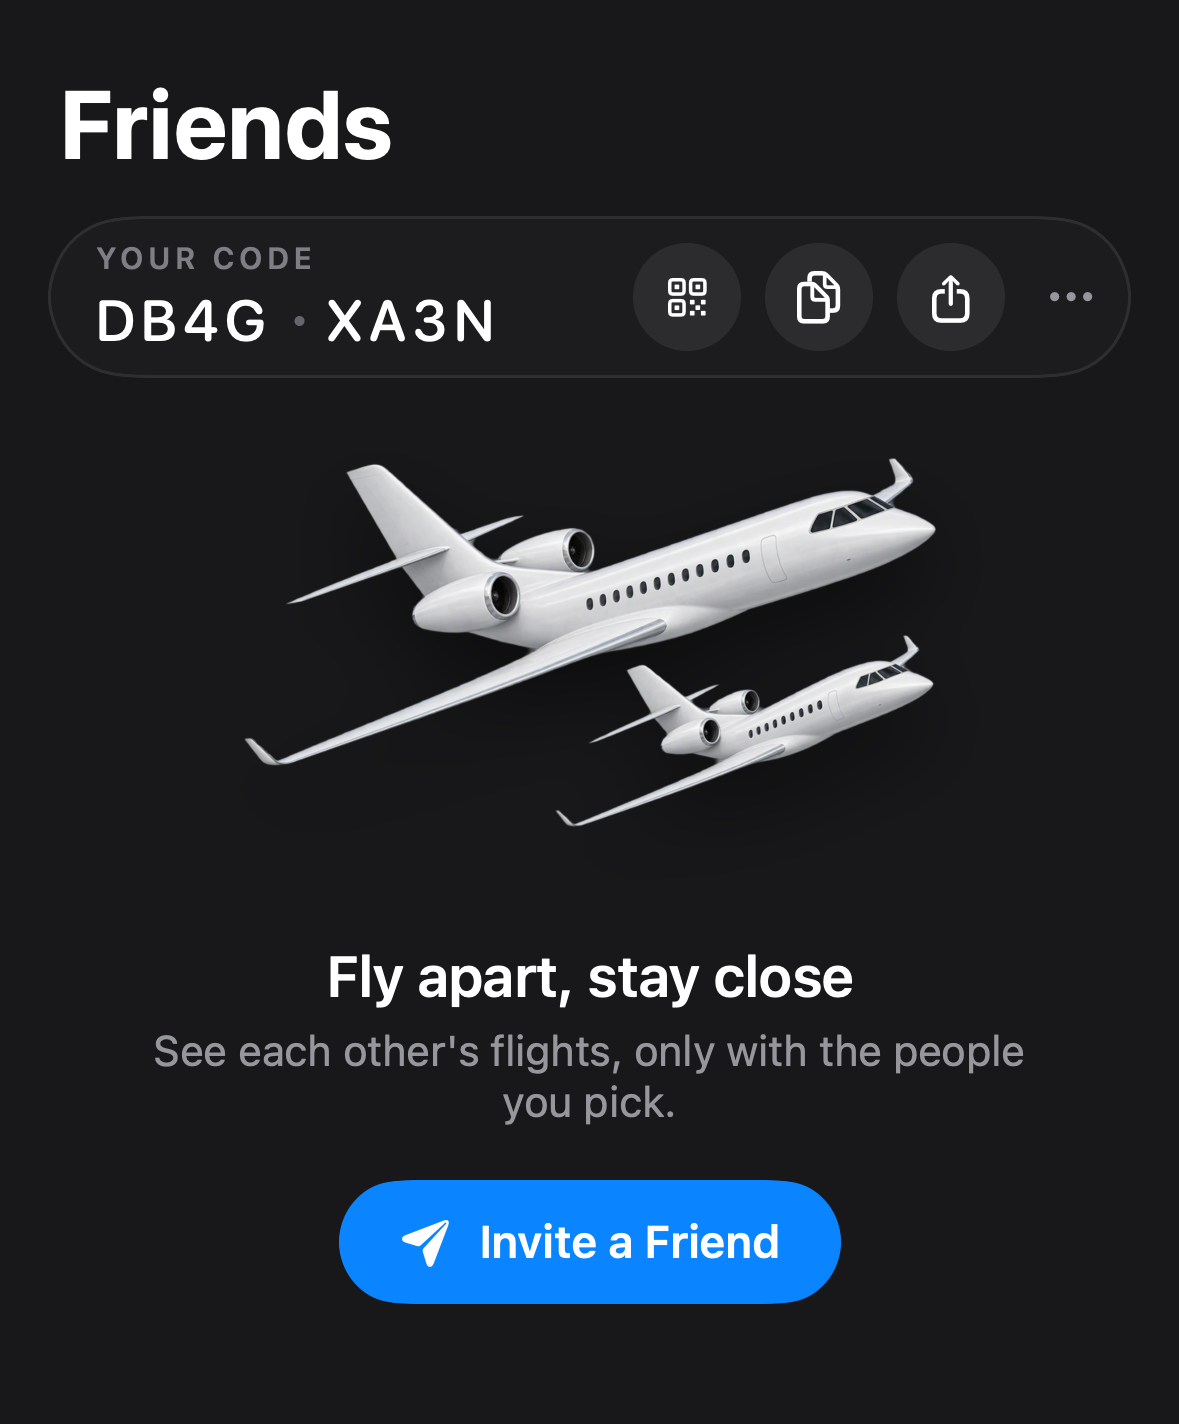
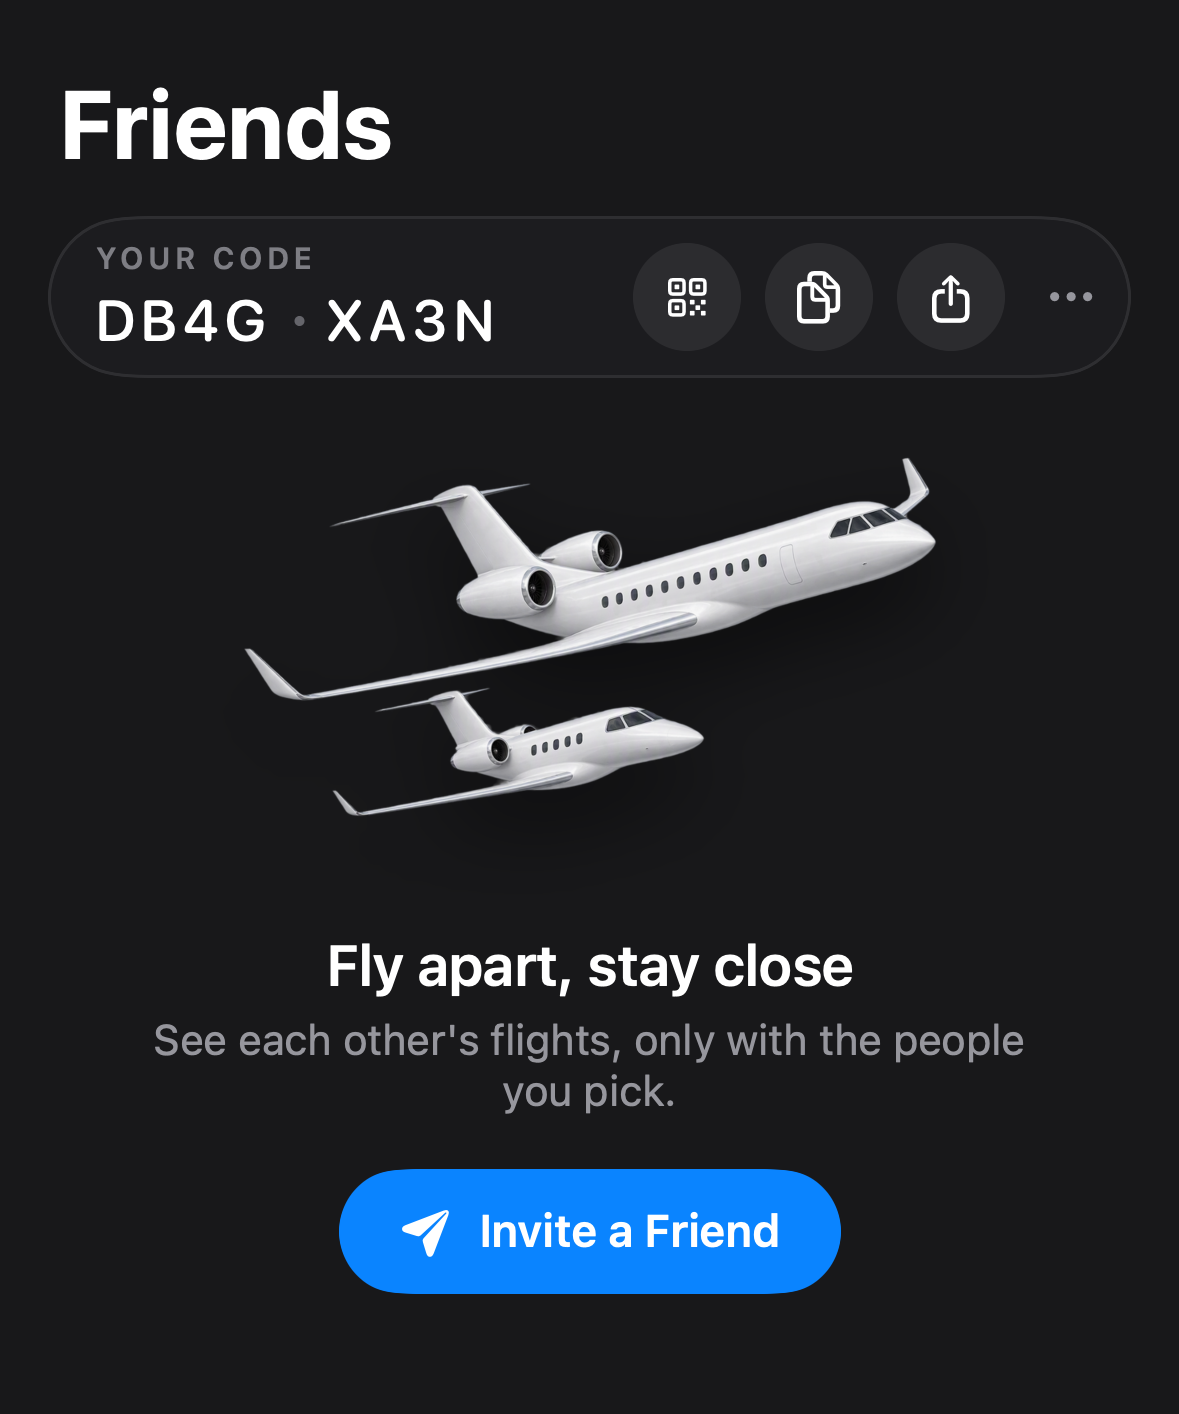
feat(friends): two different private jets for the Friends empty state
The owner picked option A: a large long-range jet in the G650 class ahead and
a light jet in the Phenom 300 class behind, both climbing in the same white
studio render as the other empty states, unbranded. Prompts for all four
options in assets/app-icon/gen.py, the chosen raw beside it.

diff --git a/Packages/FlightKit/Sources/FlightKit/UI/EmptyStateIllustration.swift b/Packages/FlightKit/Sources/FlightKit/UI/EmptyStateIllustration.swift
@@ -11,7 +11,7 @@ struct EmptyStateIllustration: View {
         case stamp
         /// The jet seen three-quarters from the front, climbing (My Flights).
         case climb
-        /// Two of the same jets climbing together, one ahead and one behind (Friends).
+        /// Two private jets of different types climbing together, a large one ahead and a light one behind (Friends).
         case pair
 
         var asset: String {

diff --git a/assets/app-icon/gen.py b/assets/app-icon/gen.py
@@ -32,6 +32,43 @@ JET = (
 ICON = ("This is for an app icon, so the silhouette must stay bold and readable when tiny: a compact, chunky, "
         "confident aircraft, slightly shorter wings than real, thick fuselage. The whole aircraft fits in the frame "
         "with generous equal margins, centred. ")
+STYLE = (
+    "The reference image only shows the rendering style to copy: glossy pure white paint with soft silver shading, "
+    "a realistic but slightly stylised premium product illustration, like an Apple product render, clean studio "
+    "lighting from the upper left, smooth gloss, crisp edges, very few panel lines, dark cockpit glass. Do NOT copy the "
+    "reference aircraft's type. Absolutely no livery, no stripes, no logo, no text, no registration, no flag on any "
+    "aircraft. Landing gear retracted, in flight. Rigid perfectly straight fuselages, correct perspective. Isolated on "
+    "a fully transparent background: no sky, no ground, no clouds, no shadow, no reflection, no contrails, no frame, "
+    "no watermark. "
+)
+# Friends, round 2: the owner wants two private jets of different types, each recognisably its own type,
+# never the Falcon trijet look twice. Options A-D for the owner to choose from.
+SAME_ANGLE = ("Both aircraft fully inside the frame with generous margins, not overlapping each other, each type "
+              "obvious at a glance from its shape and size. ")
+MIXED = {
+    "friends-a": SAME_ANGLE + "Draw TWO clearly different private business jets flying together, both in "
+        "three-quarter front view climbing gently to the upper RIGHT. In front, higher and nearer: a large "
+        "ultra-long-range jet like a Gulfstream G650, long fuselage with big oval windows, T-tail, two large engines "
+        "on the rear fuselage, long swept wings with tall winglets. Behind, lower and smaller: a light jet like an "
+        "Embraer Phenom 300, short stubby fuselage, T-tail, two small engines on the rear fuselage, straight-ish "
+        "wings with small winglets.",
+    "friends-b": SAME_ANGLE + "Draw TWO clearly different private business jets flying together, both in "
+        "three-quarter front view climbing gently to the upper RIGHT. Behind, higher and farther, smaller: a "
+        "compact light jet like a Cessna Citation CJ4, slim short fuselage, T-tail, two small engines on the rear "
+        "fuselage. In front, lower and nearer, larger: a very large long-range jet like a Bombardier Global 7500, "
+        "very long fuselage, T-tail, two big engines on the rear fuselage, long wings with a gentle upturned tip.",
+    "friends-c": SAME_ANGLE + "Draw TWO clearly different private business jets flying side by side in loose "
+        "formation, both in three-quarter front view climbing gently to the upper RIGHT. Left and slightly behind: a "
+        "very light jet like a HondaJet, small fuselage, its two engines mounted on pylons ABOVE the wings, sharp "
+        "pointed nose. Right and slightly ahead, larger: a super-midsize jet like a Bombardier Challenger 350, "
+        "T-tail, two engines on the rear fuselage, swept wings with winglets.",
+    "friends-d": SAME_ANGLE + "Draw TWO clearly different private business jets crossing paths at different "
+        "heights, both in level flight seen from the side with a slight three-quarter angle: the upper one, a large "
+        "long-range jet like a Gulfstream G700 with T-tail and two rear engines, heading to the RIGHT; the lower one, "
+        "a light jet like an Embraer Phenom 300, smaller, heading to the LEFT, slightly offset so they pass like two "
+        "friends crossing paths in the sky.",
+}
+
 VIEWS = {
     # three-quarter climb like the My Flights empty state, more compact for a square tile
     "icon-climb": (ICON + "View: three-quarter front view, camera slightly below and about 35 degrees ahead of the "
@@ -69,9 +106,13 @@ def key():
 
 
 def run(view, tag, k):
-    text, size = VIEWS[view]
+    if view in MIXED:
+        prompt, size = STYLE + MIXED[view], "1536x1024"
+    else:
+        text, size = VIEWS[view]
+        prompt = JET + text
     b = uuid.uuid4().hex
-    fields = {"prompt": JET + text, "size": size, "quality": "high",
+    fields = {"prompt": prompt, "size": size, "quality": "high",
               "background": "transparent", "output_format": "png", "n": "1"}
     body = b"".join(f"--{b}\r\nContent-Disposition: form-data; name=\"{f}\"\r\n\r\n{v}\r\n".encode()
                     for f, v in fields.items())
